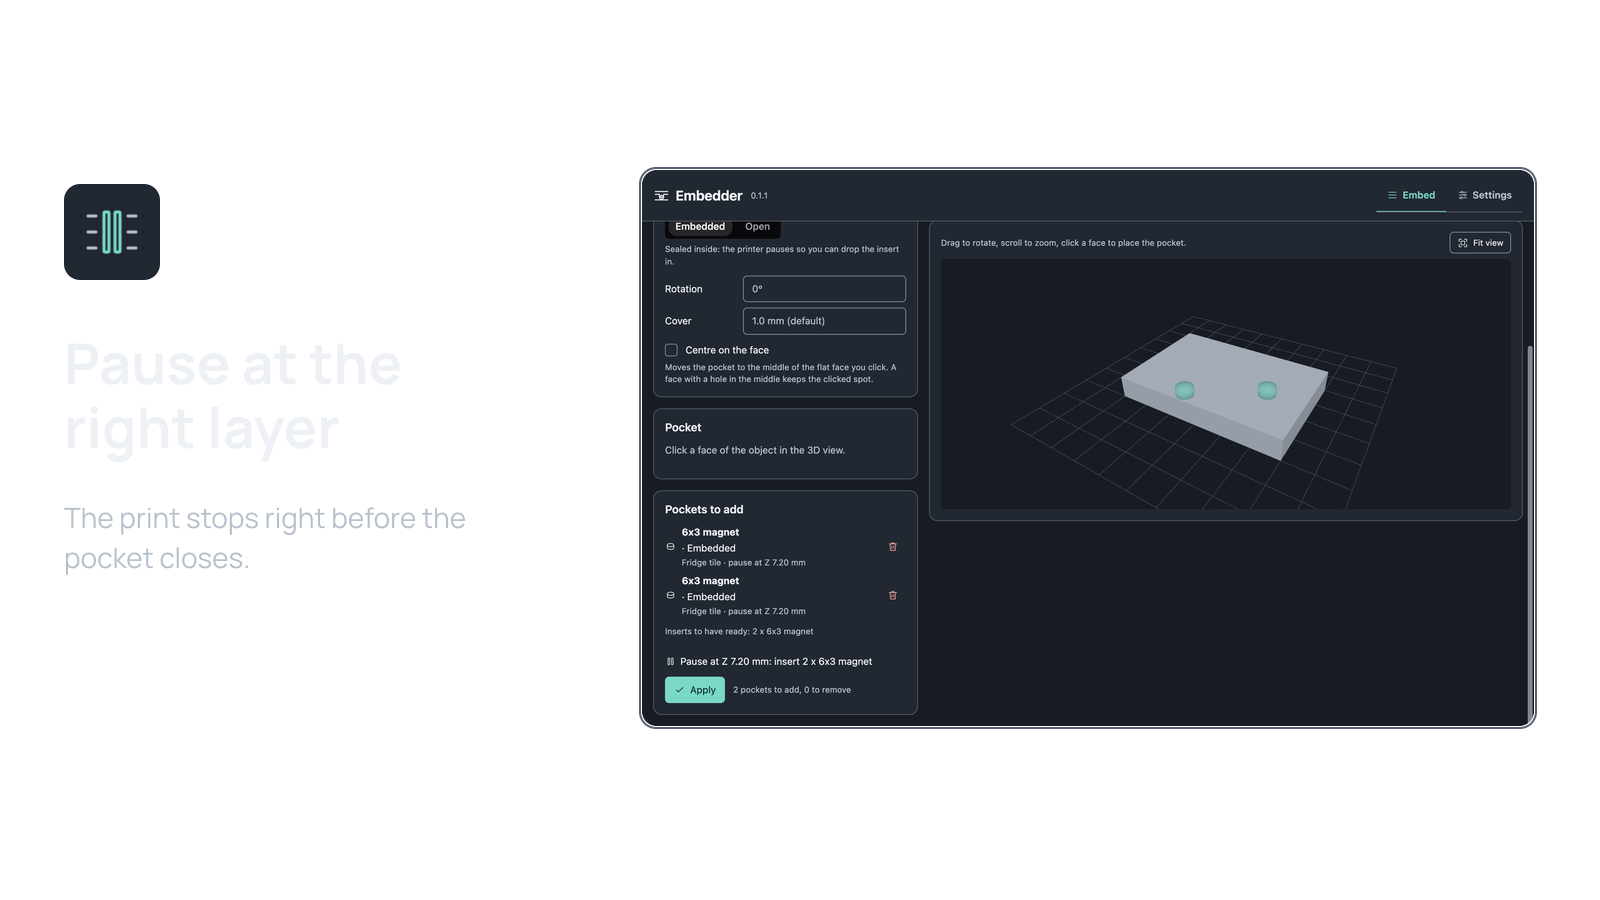
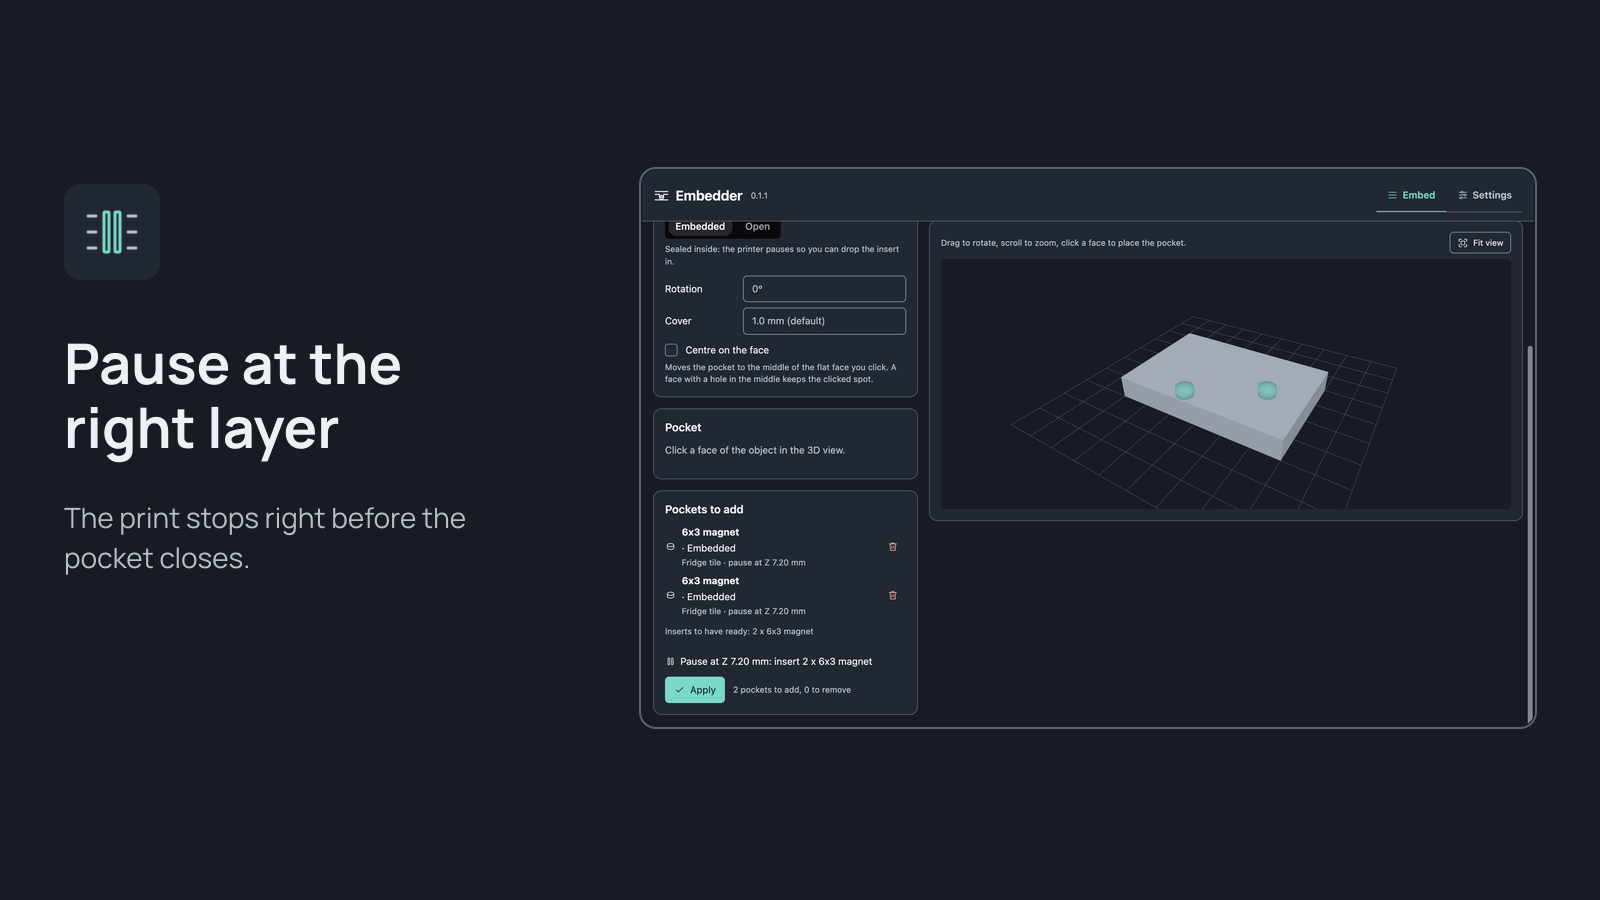
fix(brand): opaque store, social and install images, and the sibling preview from the finished hero

diff --git a/scripts/frames.py b/scripts/frames.py
@@ -1,5 +1,16 @@
-"""Place the real page renders (node ui/tests/page/shots.mjs) into the empty 16:10 screenshot frames of the brand
-PNGs, at the frame coordinates recorded in assets/asset-manifest.json. The SVG masters keep their empty frames.
+"""Finish the brand PNGs that are uploaded, posted or shown in the README, from the kit's exports:
+
+1. Store, social and install images are made opaque on the background asset-manifest.json records for them
+   (`intended_background`): a transparent image shows its lettering on whatever page it lands on, and neither
+   Orca Cloud nor GitHub's two themes can be relied on. Identity marks, feature tiles and UI icons stay
+   transparent; the README picks their light or dark variant.
+2. The real page renders (node ui/tests/page/shots.mjs) go into the empty 16:10 screenshot frames, at the
+   coordinates in the manifest. The SVG masters keep their empty frames.
+3. docs/related-plugins/embedder-preview.png (560x224, shown by the sibling plugins) is resized from the
+   finished dark README hero.
+
+Running it again over its own output gives the same bytes: flattening an opaque image changes nothing and the
+renders are pasted with a hard-edged mask, so every pasted pixel is replaced, never blended with the last run.
 
 Pillow is a dev-only tool here, not a dependency of the plugin:
     uv run --no-project --with pillow python scripts/frames.py [shots-dir]      default shots-dir: dist/shots
@@ -13,7 +24,9 @@ from PIL import Image, ImageDraw
 
 ROOT = Path(__file__).resolve().parents[1]
 MAX_STORE_BYTES = 2_000_000          # Orca Cloud refuses images of 2 MB or more
-SUPERSAMPLE = 4                      # smooth rounded corners on the mask
+SUPERSAMPLE = 4                      # where the rounded-corner mask is measured before it is cut to 0 or 255
+OPAQUE = ("assets/orca-cloud/", "assets/social/", "assets/install/")   # shipped images that must not be transparent
+PREVIEW = ("assets/readme/embedder-hero-dark.png", "docs/related-plugins/embedder-preview.png", (560, 224))
 # brand PNG -> render. A frame without a genuine render of its step is left empty (install-01 shows OrcaSlicer's
 # own plugin dialog, which the page cannot render).
 PLACES = {
@@ -35,33 +48,57 @@ INSET = 2                            # inside the frame's 2 px border
 RADIUS = {"install": 12}             # frame corner radius by folder; 16 elsewhere (the SVG masters' rx)
 
 
-def frames():
-    manifest = json.loads((ROOT / "assets" / "asset-manifest.json").read_text("utf-8"))
-    return {a["png"]: a["screenshot_frames"] for a in manifest["assets"] if a["screenshot_frames"]}
+def manifest():
+    return json.loads((ROOT / "assets" / "asset-manifest.json").read_text("utf-8"))["assets"]
+
+
+def hex_rgb(value):
+    return tuple(int(value[i:i + 2], 16) for i in (1, 3, 5))
 
 
 def rounded_mask(size, radius):
+    """Hard-edged (0 or 255), so a second run replaces exactly the pixels the first one did."""
     big = Image.new("L", (size[0] * SUPERSAMPLE, size[1] * SUPERSAMPLE), 0)
     ImageDraw.Draw(big).rounded_rectangle((0, 0, big.width - 1, big.height - 1), radius * SUPERSAMPLE, fill=255)
-    return big.resize(size, Image.LANCZOS)
+    return big.resize(size, Image.LANCZOS).point(lambda v: 255 if v >= 128 else 0)
 
 
-def place(target, shot, frame):
-    x, y, w, h = frame["x"] + INSET, frame["y"] + INSET, frame["width"] - 2 * INSET, frame["height"] - 2 * INSET
-    radius = RADIUS.get(target.split("/")[1], 16) - INSET
-    base = Image.open(ROOT / target).convert("RGBA")
-    render = Image.open(shot).convert("RGBA").resize((w, h), Image.LANCZOS)
-    base.paste(render, (x, y), rounded_mask((w, h), radius))
-    base.save(ROOT / target, optimize=True)
+def save(image, target):
+    image.save(ROOT / target, optimize=True)
     size = (ROOT / target).stat().st_size
     if "orca-cloud" in target and size >= MAX_STORE_BYTES:
         raise SystemExit("%s is %d bytes; Orca Cloud takes less than 2 MB" % (target, size))
     return size
 
 
+def flatten(target, background):
+    """The image composited over its intended background, as opaque RGB; an opaque image comes back unchanged."""
+    image = Image.open(ROOT / target).convert("RGBA")
+    base = Image.new("RGBA", image.size, hex_rgb(background) + (255,))
+    return save(Image.alpha_composite(base, image).convert("RGB"), target)
+
+
+def place(target, shot, frame):
+    x, y, w, h = frame["x"] + INSET, frame["y"] + INSET, frame["width"] - 2 * INSET, frame["height"] - 2 * INSET
+    radius = RADIUS.get(target.split("/")[1], 16) - INSET
+    base = Image.open(ROOT / target)
+    render = Image.open(shot).convert(base.mode).resize((w, h), Image.LANCZOS)
+    base.paste(render, (x, y), rounded_mask((w, h), radius))
+    return save(base, target)
+
+
+def preview():
+    source, target, size = PREVIEW
+    return save(Image.open(ROOT / source).convert("RGB").resize(size, Image.LANCZOS), target)
+
+
 def main():
     shots = Path(sys.argv[1]) if len(sys.argv) > 1 else ROOT / "dist" / "shots"
-    known = frames()
+    assets = manifest()
+    for a in assets:
+        if a["png"].startswith(OPAQUE) and a["background"] == "transparent":
+            print("%-48s on %s %7d bytes" % (a["png"], a["intended_background"], flatten(a["png"], a["intended_background"])))
+    known = {a["png"]: a["screenshot_frames"] for a in assets if a["screenshot_frames"]}
     for target, name in PLACES.items():
         (frame,) = known[target]
         if frame["aspect_ratio"] != "16:10":
@@ -69,6 +106,7 @@ def main():
         print("%-48s <- %-16s %7d bytes" % (target, name, place(target, shots / (name + ".png"), frame)))
     for target in sorted(set(known) - set(PLACES)):
         print("%-48s    left empty" % target)
+    print("%-48s <- %-16s %7d bytes" % (PREVIEW[1], PREVIEW[0].split("/")[-1], preview()))
 
 
 if __name__ == "__main__":

diff --git a/CONTRIBUTING.md b/CONTRIBUTING.md
@@ -89,6 +89,12 @@ node ui/tests/page/shots.mjs                                   # dist/shots/*.pn
 uv run --no-project --with pillow python scripts/frames.py     # places them at the frames in assets/asset-manifest.json
 ```
 
+`frames.py` also makes the store, social and install PNGs opaque on the background the manifest records for
+each (`#181c22` or `#f5f6f8`), since they are uploaded or shown where the page colour is unknown, and resizes
+the finished dark hero into `docs/related-plugins/embedder-preview.png` for the sibling plugins. Run on its own
+output it gives the same bytes. Identity marks, feature tiles and UI icons stay transparent; where one is
+shown in the README, use a `<picture>` with its light and dark variant.
+
 `shots.mjs` drives headless Chrome (with `--use-mock-keychain --password-store=basic` and software WebGL)
 against `ui/tests/page/shots_host.py`, which runs `plugin.py` under the test double of `orca` on a project
 built in code, so every number on a screenshot is the plugin's own answer. Pillow is used only for this step;

diff --git a/docs/related-plugins/README.md b/docs/related-plugins/README.md
@@ -15,7 +15,7 @@ Resized copies of artwork and interface previews from the linked projects (mock 
 | [kobracontrol-icon.svg](kobracontrol-icon.svg) | [Original](https://github.com/bloodf/kobracontrol/blob/main/assets/kobracontrol-icon.svg) |
 | [kobracontrol-preview.png](kobracontrol-preview.png) | [Original](https://github.com/bloodf/kobracontrol/blob/main/assets/readme/kobracontrol-hero-dark.png) |
 | [embedder-icon.png](embedder-icon.png) | This project: [assets/embedder-icon.png](../../assets/embedder-icon.png), resized |
-| [embedder-preview.png](embedder-preview.png) | This project: [assets/readme/embedder-hero-dark.png](../../assets/readme/embedder-hero-dark.png) before its screenshot, resized |
+| [embedder-preview.png](embedder-preview.png) | This project: [assets/readme/embedder-hero-dark.png](../../assets/readme/embedder-hero-dark.png) with its screenshot, resized by `scripts/frames.py` |
 
 License texts:
 

diff --git a/README.md b/README.md
@@ -258,8 +258,8 @@ The 3MF reading and writing is adapted from [orca_organizer](https://github.com/
 (GPL-3.0). The 3D view uses [three.js](https://threejs.org) (MIT). The page uses Vue and PrimeVue
 through the shared Orca UI foundation. See [NOTICE.md](NOTICE.md).
 
-The brand art is pending: it is generated from [docs/brand-images-prompt.md](docs/brand-images-prompt.md),
-and `assets/embedder-icon.svg` is a placeholder until then.
+The brand art and its fonts are credited in [NOTICE.md](NOTICE.md); the brief is
+[docs/brand-images-prompt.md](docs/brand-images-prompt.md).
 
 Embedder is an independent project and is not made or supported by the OrcaSlicer team.
 
